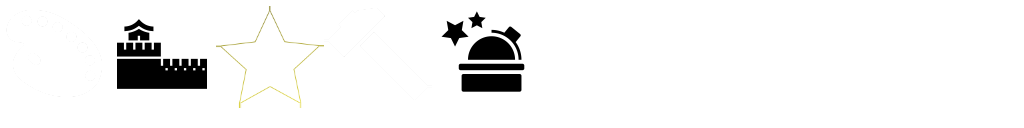
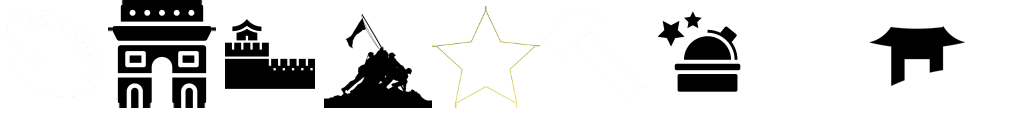
Implement the updated Warriors design
- Fortress: +2 Faith instead of +2 Food and +2 Happiness
- Military units now cost 50% less Production in a city with a Fortress, implemented on the military unit types (a unit's cost is only read from the unit itself) and verified against the real ruleset
- Add Wine Cellar (replaces Shrine): +1 Food, +1 Happiness and extra Food from Wine/Citrus/Sugar tiles in the city
- Day of the Chosen: +5 Happiness
- Add Oath Stele (replaces Heroic Epic): free Great General, +1 Movement in friendly territory and +3 Faith
- Placeholder icons for the new buildings, repacked texture atlas, updated README and credits

diff --git a/README.md b/README.md
@@ -12,8 +12,10 @@ The Warriors start with a bias towards Mountains and have unique buildings, unit
 
 | Type | Name | Replaces | Notes |
 |---|---|---|---|
-| Building | Fortress | Walls | +100% Production when constructing military units in this city |
-| Building | Day of the Chosen | National Epic | National Epic's bonuses plus a free Great Artist |
+| Building | Fortress | Walls | +2 Production, +2 Faith; military units cost 50% less Production in this city |
+| Building | Wine Cellar | Shrine | +1 Food and +1 Happiness instead of Faith; +2 Food on Wine, +1 Food on Citrus and +3 Food on Sugar tiles in this city |
+| Building | Day of the Chosen | National Epic | National Epic's bonuses plus a free Great Artist and +5 Happiness |
+| Building | Oath Stele | Heroic Epic | Heroic Epic's bonuses plus a free Great General, +3 Faith and +1 Movement for units in friendly territory |
 | Unit | Sapper | Worker | Can cross Mountains, takes no damage while on them |
 | Unit | Officer | Great General | +30% Strength to military units within 2 tiles when attacking (instead of the usual +15%) |
 | Unit | Chosen One | Great Artist | +50% Strength to military units within 2 tiles when defending (instead of starting a Golden Age) |

diff --git a/Credits.md b/Credits.md
@@ -9,6 +9,9 @@ The following images are taken from Unciv's own icons and are used as temporary 
 until dedicated artwork is drawn:
 
 - `Images/BuildingIcons/Fortress.png` — Unciv's "Walls" icon
+- `Images/BuildingIcons/Wine Cellar.png` — Unciv's "Shrine" icon
+- `Images/BuildingIcons/Day of the Chosen.png` — Unciv's "National Epic" icon
+- `Images/BuildingIcons/Oath Stele.png` — Unciv's "Heroic Epic" icon
 - `Images/UnitIcons/Sapper.png` — Unciv's "Worker" icon
 - `Images/UnitIcons/Officer.png` — Unciv's "Great General" icon
 - `Images/UnitIcons/Chosen One.png` — Unciv's "Great Artist" icon
